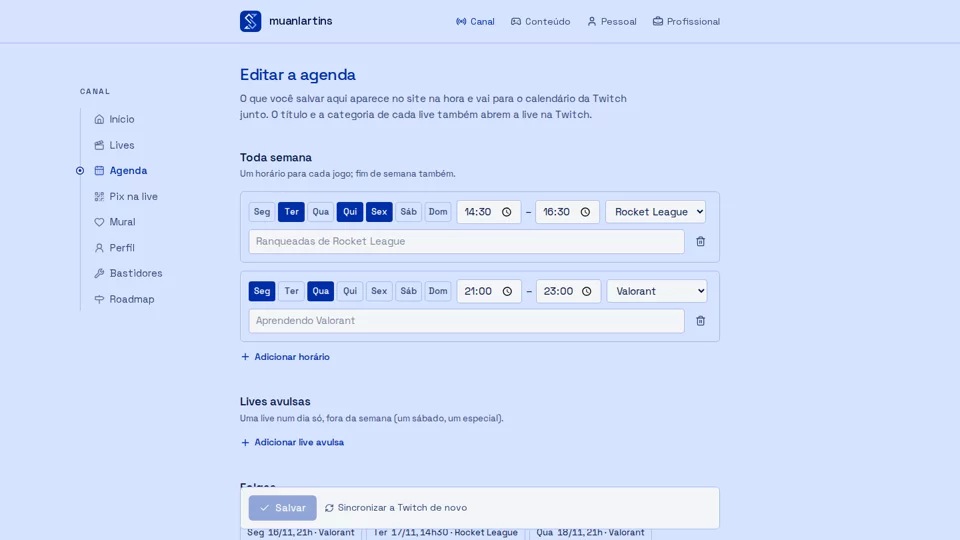
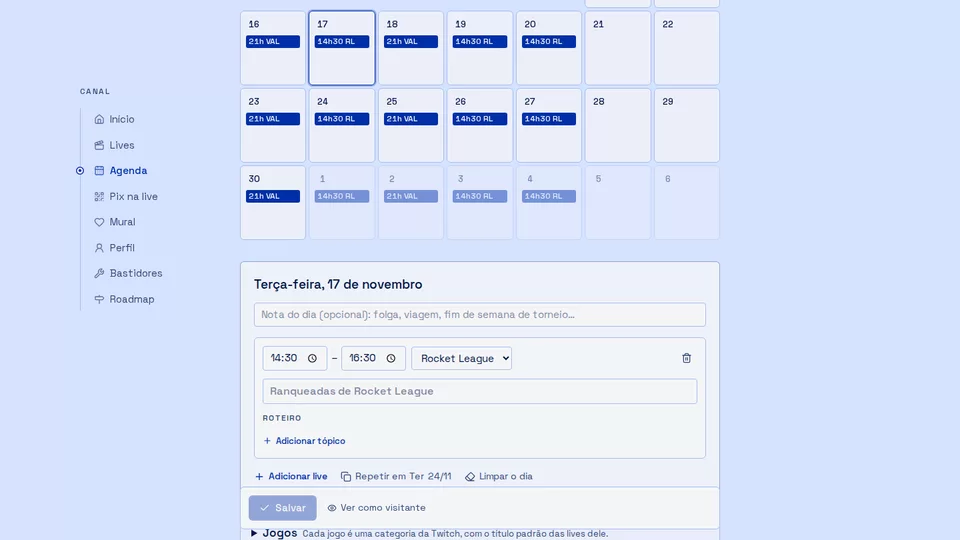
Reshoot the agenda's roadmap pictures with the calendar

diff --git a/content/changelog.ts b/content/changelog.ts
@@ -148,8 +148,8 @@ export const SHIPPED: Shipped[] = [
     text: "A agenda virou um calendário que eu planejo dia a dia no site: cada live com horário, jogo, título e o roteiro do que vai rolar, e o fim de semana detalhado. O calendário da Twitch muda junto e a live já abre com o título e a categoria certos.",
     href: "/canal/agenda",
     media: [
-      media("agenda-editavel", "A agenda no site: o calendário do mês e o dia escolhido com o roteiro de cada live"),
-      media("agenda-editavel-editor", "Planejando um dia na agenda: as lives, o título e o roteiro de cada uma"),
+      media("agenda-editavel", "A agenda no site: o calendário com as lives de cada dia e o dia escolhido com a live dele"),
+      media("agenda-editavel-editor", "Planejando um dia na agenda: o horário, o jogo, o título e o roteiro de cada live"),
     ],
   },
   {
